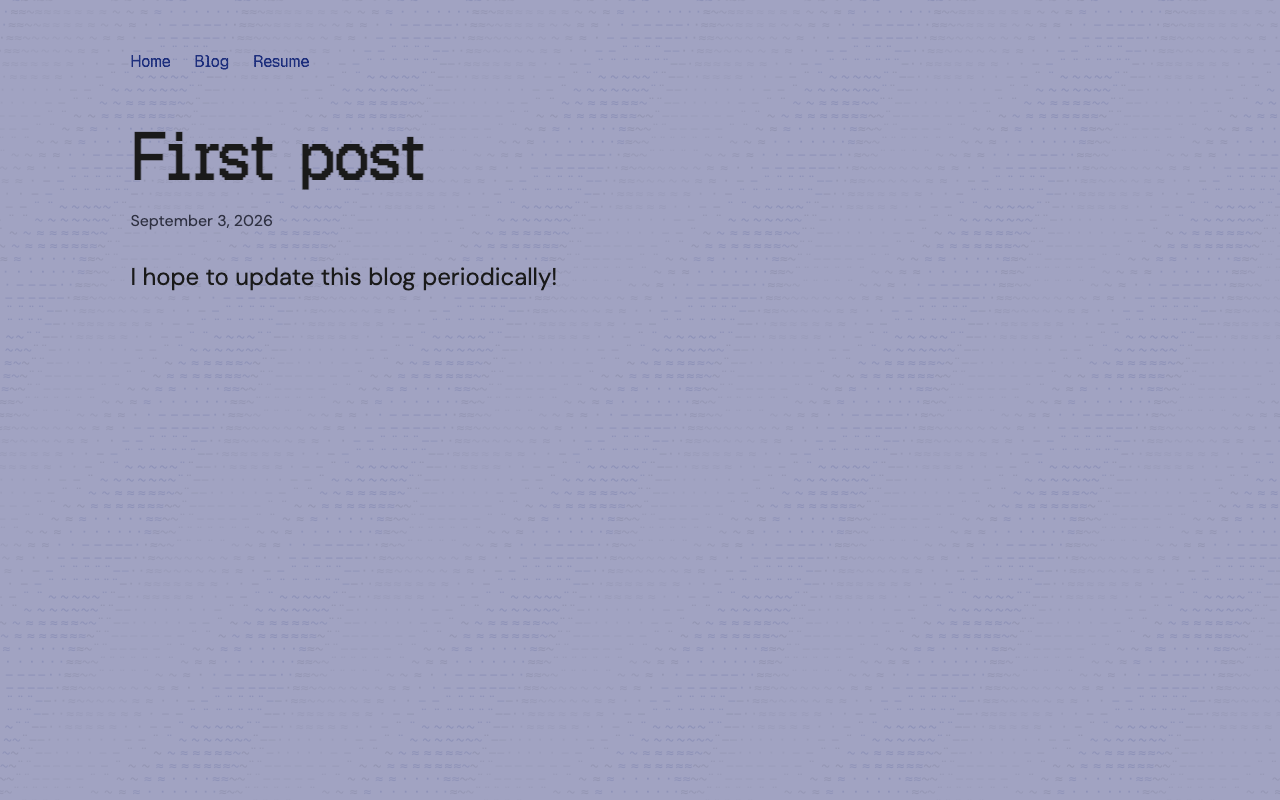
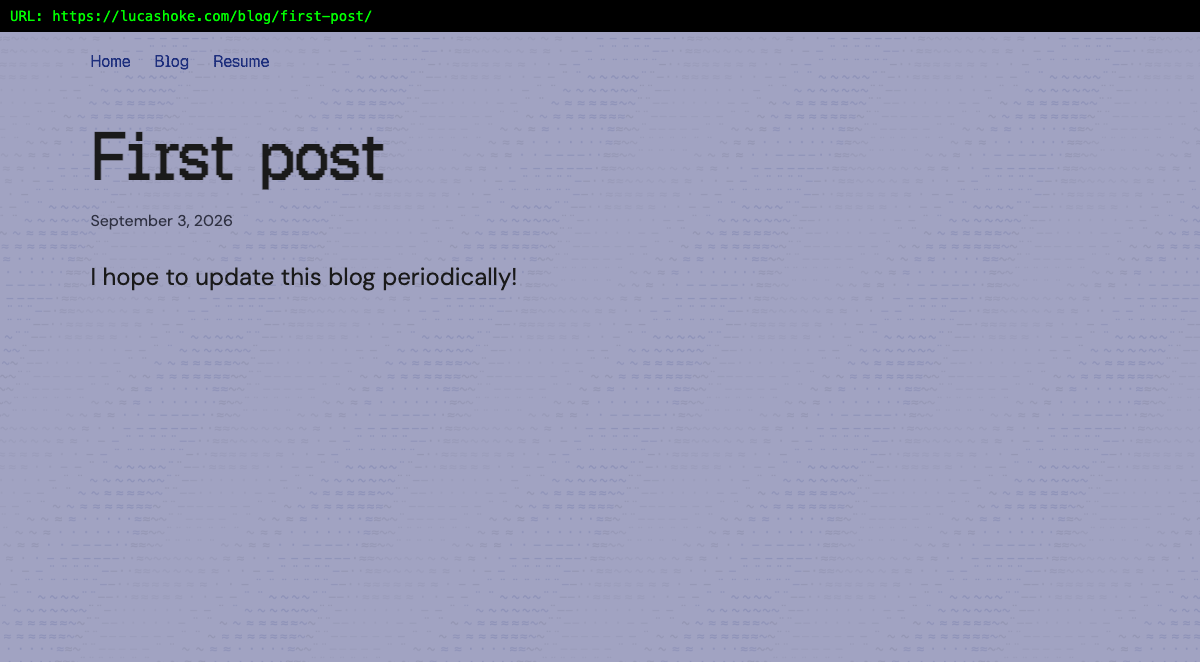
Added URL to screenshots through Playwright

diff --git a/verification/README.md b/verification/README.md
@@ -1,5 +1,11 @@
 URL checked: https://lucashoke.com
-When: 2026-09-20 14:57 (local time)
+When: 2026-09-20 15:09 (local time)
+
+Note: headless Chromium screenshots do not capture OS/browser chrome, so
+the address bar is not naturally visible in a screenshot. Each screenshot
+below has a fixed banner injected via `location.href` before capture,
+showing the exact URL the page was loaded from at the moment of the
+screenshot.
 
 Checks performed:
 - home-screenshot.png / home-fetch.txt — homepage returns 200, title is
